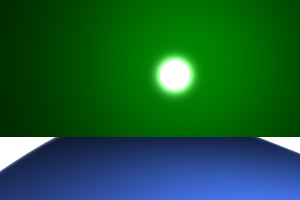
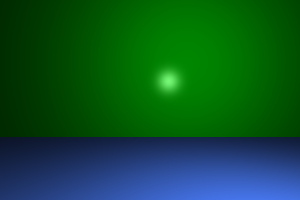
master: scene 1 working fix

Changed region(s): [[0.51, 0.24, 0.66, 0.51], [0.0, 0.66, 0.18, 0.87], [0.84, 0.66, 1.0, 0.78]]

diff --git a/helper_classes.py b/helper_classes.py
@@ -1,3 +1,4 @@
+from cmath import inf
 import numpy as np
 
 
@@ -9,13 +10,26 @@ def normalize(vector):
 # TODO:
 # This function gets a vector and the normal of the surface it hit
 # This function returns the vector that reflects from the surface
+#  R = 2*(L*N)N - L
 def reflected(vector, normal):
     norm_vector = normalize(vector)
     inner = np.dot(norm_vector, normal)
-    inner = 2 * inner * normal
-    return inner - norm_vector
+    inner = np.multiply(2 * inner, normal)
+    return norm_vector - inner 
+
+# # r=d−2(d⋅n)n
+# def reflecter_v2(vector, normal):
+#     vector_from_light = - vector
+#     inner = np.dot(vector_from_light, normal)
+#     inner = 2 * inner * vector
+#     return vector_from_light - inner 
 
 
+def reflecter_v2(vector, normal):
+    norm_vector = (vector)
+    inner = np.dot(norm_vector, normal)
+    inner = 2 * inner * vector
+    return inner  - norm_vector 
 
 
 ## Lights
@@ -42,11 +56,11 @@ class DirectionalLight(LightSource):
 
     # This function returns the ray that goes from the light source to a point
     def get_light_ray(self,intersection):
-        return Ray(intersection,normalize(self.position - intersection))
+        return Ray(intersection, normalize(-self.direction))
 
     # This function returns the distance from a point to the light source
     def get_distance_from_light(self, intersection):
-        return np.linalg.norm(intersection - self.position)
+        return np.inf
 
     # This function returns the light intensity at a point
     def get_intensity(self, intersection):
@@ -153,16 +167,57 @@ class Triangle(Object3D):
         v1 = self.c - self.a
         v2 = self.c - self.b
         return np.cross(v1, v2)
+    # Hint: First find the intersection on the plane
 
     def get_triangle_plane(self):
-        return Plane(self.compute_normal, self.a)
-
-    # Hint: First find the intersection on the plane
+        return Plane(self.normal, self.a)
     # Later, find if the point is in the triangle using barycentric coordinates
+    def intersectv1(self, ray: Ray):
+        # everything in this function was done according to slide 21, recitation 5
+        ab, ac = self.b - self.a, self.c - self.a
+        intersectionPoint = self.get_triangle_plane()
+        intersectionPoint = intersectionPoint.intersect(ray)
+        if not intersectionPoint:
+            return None
+        # areaABC = np.cross(ab,ac)
+        # areaABC = normalize(areaABC) / 2
+        areaABC = np.linalg.norm(np.cross((self.b - self.a), (self.c - self.a))) / 2
+        PA,PB,PC = self.a - intersectionPoint, self.b - intersectionPoint,  self.c - intersectionPoint
+        # alpha = np.cross(PB,PC)
+        # alpha = normalize(alpha) / (2*areaABC)
+        # beta = np.cross(PC,PA)
+        # beta = normalize(beta)  / (2*areaABC)
+        # gamma = 1 - alpha - beta
+        alpha = np.linalg.norm(np.cross(PB, PC)) / (2 * areaABC)
+        beta = np.linalg.norm(np.cross(PC, PA)) / (2 * areaABC)
+        gamma = np.linalg.norm(np.cross(PA, PB)) / (2 * areaABC)
+        is_intersect = np.abs(alpha + beta + gamma - 1) < 0.00001
+        if not is_intersect:
+            return None
+            
+        return intersectionPoint
+
     def intersect(self, ray: Ray):
-        ab = self.a - self.b
+        # TODO
+        plane = Plane(self.normal, self.a)
+        intersection_distance= plane.intersect(ray)
+        if intersection_distance == None:
+            return None
+        intersection_point = ray.origin + intersection_distance*ray.direction
         
-        pass
+        areaABC = np.linalg.norm(np.cross((self.b - self.a), (self.c - self.a))) / 2
+        PA = self.a - intersection_point
+        PB = self.b - intersection_point
+        PC = self.c - intersection_point
+        alpha = np.linalg.norm(np.cross(PB, PC)) / (2 * areaABC)
+        beta = np.linalg.norm(np.cross(PC, PA)) / (2 * areaABC)
+        gamma = np.linalg.norm(np.cross(PA, PB)) / (2 * areaABC)
+
+        is_intersect = np.abs(alpha + beta + gamma - 1) < 0.00001
+        if is_intersect:
+            return intersection_distance
+        else:
+            return None
 
 
 class Sphere(Object3D):

diff --git a/hw3.py b/hw3.py
@@ -15,34 +15,50 @@ def render_scene(camera, ambient, lights, objects, screen_size, max_depth):
             color = np.zeros(3)
             # initializing ray
             ray = Ray(camera, pixel - camera)
-            nearest_object, min_distance = ray.nearest_intersected_object(objects)
-            intersection_point = calcIntersectPoint(ray,min_distance)
-            color += get_color(ray, lights,nearest_object, ambient, intersection_point)
+            # find nearest object
+            color += get_color(ray, lights, objects, ambient, 1, max_depth)
             # We clip the values between 0 and 1 so all pixel values will make sense.
             image[i, j] = np.clip(color,0,1)
 
     return image
 
-def get_color(ray, lights:LightSource, nearest_object, ambient, intersection_point):
+def get_color(ray, lights:LightSource, objects, ambient, level, max_level):
     color = np.zeros(3)
+    nearest_object, min_distance = ray.nearest_intersected_object(objects)
+    intersection_point = calcIntersectPoint(ray,min_distance)
+    if not nearest_object:
+        return color
     color += calc_emmited_color()
-    color += calcAmbientColor(nearest_object, ambient)            
+    color += calcAmbientColor(nearest_object, ambient)      
     for light in lights:
+        ray_to_light = light.get_light_ray(intersection_point)
+        _, min_distance_object_from_light = ray_to_light.nearest_intersected_object(objects)
+        light_distance = light.get_distance_from_light(intersection_point)
+        if min_distance_object_from_light < light_distance:
+            return color
         color += calc_diffuse_color(nearest_object, light, intersection_point)
         color += calc_specular_color(ray, nearest_object, light, intersection_point)
+
+    current_level = level + 1
+    if current_level > max_level:
+        return color
+
+    reflected_vector = reflected(normalize(light.get_light_ray(intersection_point).direction), nearest_object.normal)
+    reflactive_ray = Ray(intersection_point, reflected_vector)
+    color += np.multiply(nearest_object.reflection, get_color(reflactive_ray, lights, objects, ambient, current_level, max_level))
+    
     return color
 
 def calc_specular_color(ray:Ray, nearest_object:Object3D, light:LightSource, intersection_point):
-    # to_light_vector = normalize(light.position - intersection_point)
-    to_light_vector = light.position - intersection_point
-    reflected_vector =  reflected(to_light_vector , nearest_object.normal)
-    v = ray.direction
+    to_light_vector = normalize(light.get_light_ray(intersection_point).direction)
+    reflected_vector = (reflected(to_light_vector,  nearest_object.normal)) 
+    v = normalize(ray.direction)
     inner = np.inner(v, reflected_vector)
     inner = np.power(inner, nearest_object.shininess)
     return nearest_object.specular * light.get_intensity(intersection_point) * inner
 
 def calc_diffuse_color(nearest_object:Object3D, light:LightSource, intersection_point):
-    norm_light_to_point_vector = normalize(light.position - intersection_point)
+    norm_light_to_point_vector = normalize(light.get_light_ray(intersection_point).direction)
     inner = np.inner(nearest_object.normal, norm_light_to_point_vector)
 
     return nearest_object.diffuse * light.get_intensity(intersection_point) * inner
